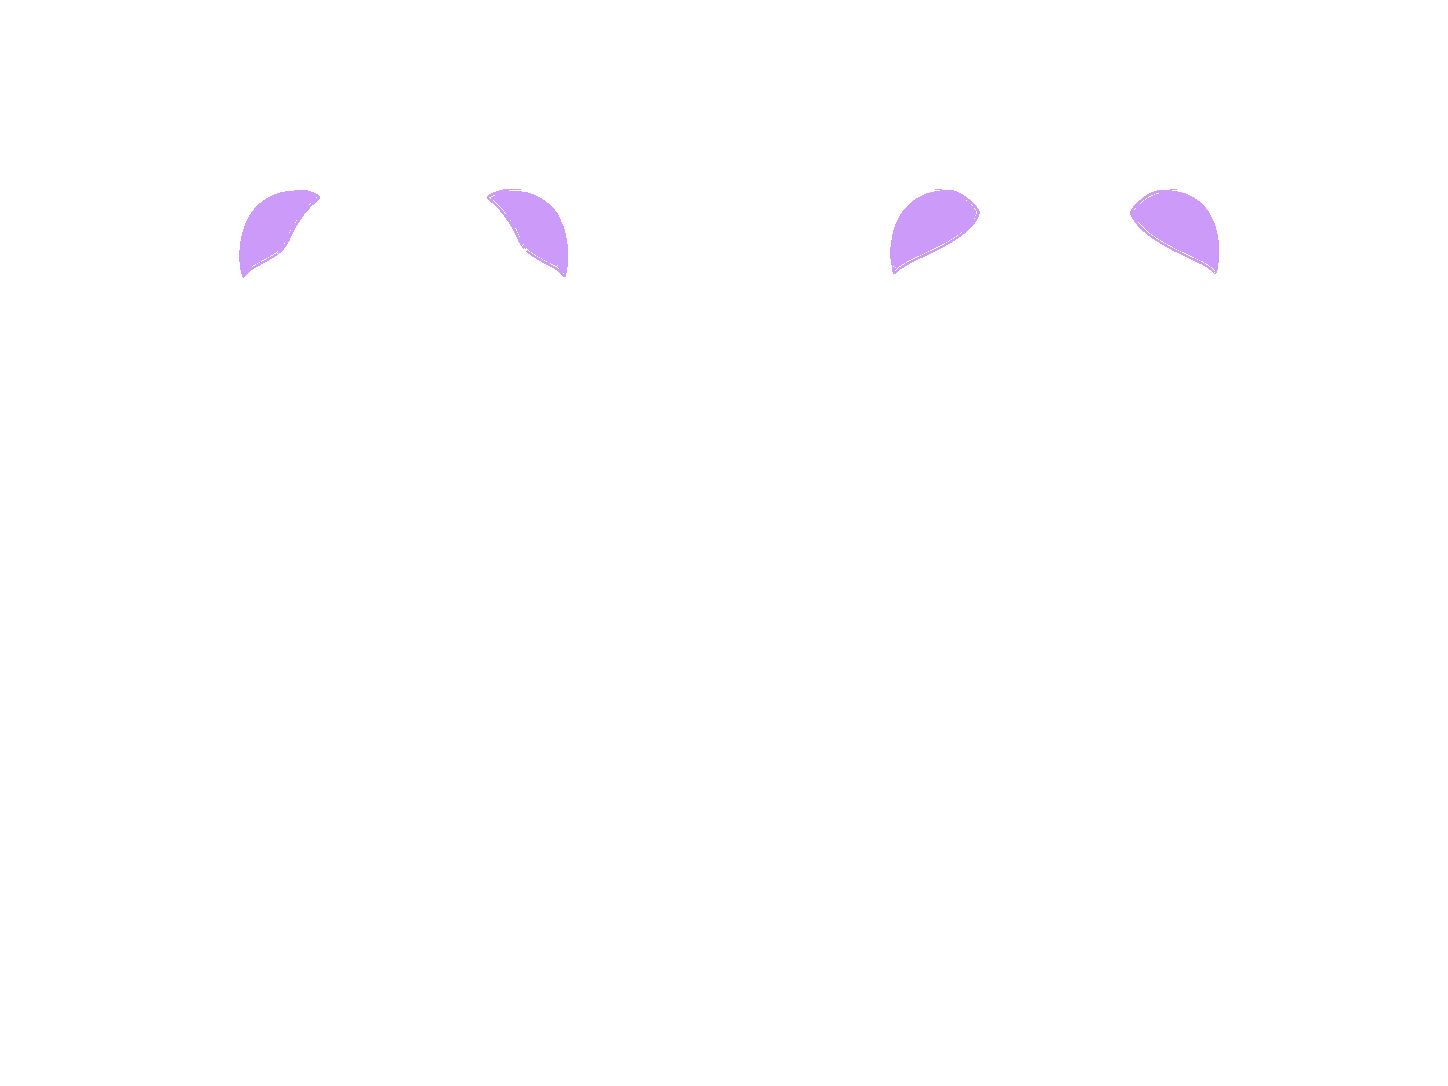
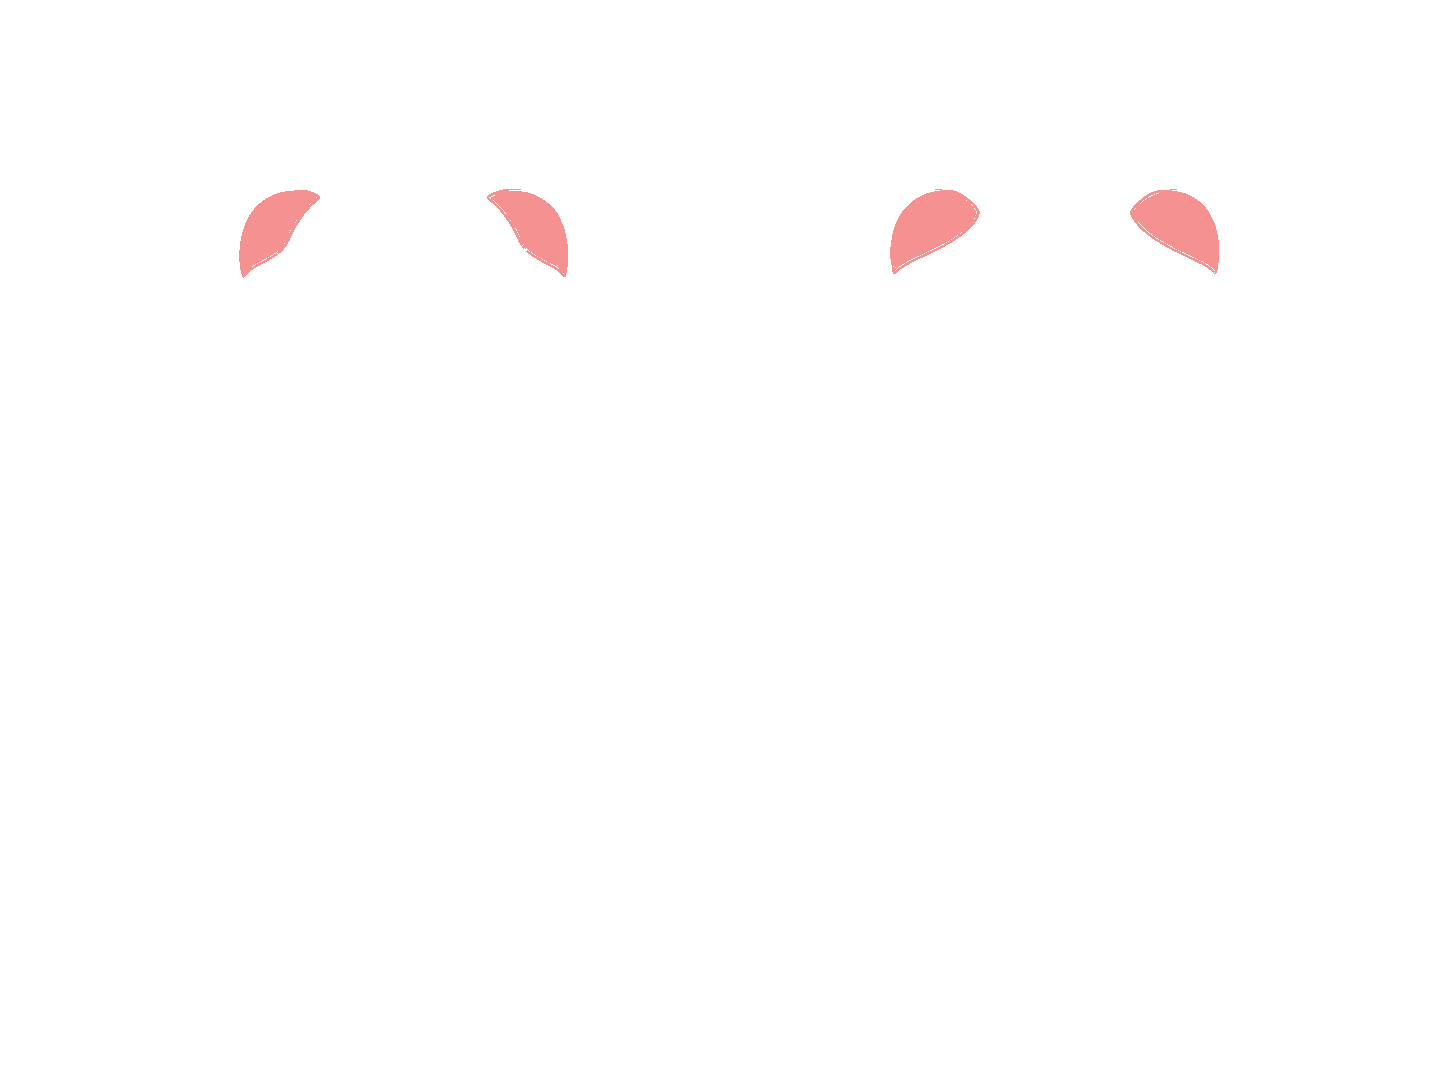
Add glutes muscle group and rebuild back-view masks from anatomy
- Introduce "glutes" as a standalone BodyPart (was lumped under "legs")
  - Update BODY_PARTS, BODY_PART_COLORS, toBodyPart in both frontend and convex/analytics.ts
  - New mask glutes.png (L935+L936 connected components = round buttocks body)
  - Add Glutes label across WorkoutMuscleMap, WorkoutMuscleAvatar, analytics page
- Rebuild legs/back/triceps masks from connected components of the body image
  for anatomically accurate shapes instead of generic ellipses
- Symmetrize back mask (mirror asymmetric left half to right, center x=1053)
- Normalize all mask alpha to 150 so muscles in the same volume zone render the
  same shade (removed getMaskOpacity tier variation)
- Switch volume colors to lighter pastel tones (green-400, yellow-300, red-400)
- Filter "Sonstiges" out of figcaption and VolumeBarChart (kept as fallback type)
- Session notes in docs/bodygraph-session-notes.md

diff --git a/src/components/workout/WorkoutMuscleMap.tsx b/src/components/workout/WorkoutMuscleMap.tsx
@@ -18,6 +18,7 @@ const BODY_LABELS: Record<BodyPart, string> = {
   triceps: "Trizeps",
   core: "Core",
   legs: "Beine",
+  glutes: "Glutes",
   shoulders: "Schultern",
   other: "Sonstiges",
 };
@@ -29,16 +30,10 @@ const BODY_PART_MASKS: Record<BodyPart, string> = {
   triceps: "/bodygraph-masks/triceps.png",
   core: "/bodygraph-masks/core.png",
   legs: "/bodygraph-masks/legs.png",
+  glutes: "/bodygraph-masks/glutes.png",
   shoulders: "/bodygraph-masks/shoulders.png",
   other: "/bodygraph-masks/other.png",
 };
-
-function getMaskOpacity(setCount: number) {
-  if (setCount <= 0) return 0;
-  if (setCount <= 4) return 0.86;
-  if (setCount <= 9) return 0.94;
-  return 1;
-}
 
 interface MaskOverlayProps {
   part: BodyPart;
@@ -63,7 +58,6 @@ function MaskOverlay({ part, setCounts }: MaskOverlayProps) {
         WebkitMaskRepeat: "no-repeat",
         maskSize: "contain",
         WebkitMaskSize: "contain",
-        opacity: getMaskOpacity(setCount),
       }}
     />
   );
@@ -136,7 +130,7 @@ export function WorkoutMuscleMap({
       </div>
       {!compact && (
         <figcaption className="mt-3 grid grid-cols-2 gap-2 text-xs text-muted-foreground">
-          {BODY_PARTS.map((part) => {
+          {BODY_PARTS.filter((part) => part !== "other").map((part) => {
             const setCount = setCounts[part];
             const color = getWeeklySetVolumeColor(setCount);
 

diff --git a/src/lib/muscle-groups.ts b/src/lib/muscle-groups.ts
@@ -7,6 +7,7 @@ export const BODY_PARTS = [
   "triceps",
   "core",
   "legs",
+  "glutes",
   "shoulders",
   "other",
 ] as const;
@@ -20,6 +21,7 @@ export const BODY_PART_COLORS: Record<BodyPart, string> = {
   triceps: "#ec4899",
   core: "#06b6d4",
   legs: "#22c55e",
+  glutes: "#f59e0b",
   shoulders: "#a855f7",
   other: "#94a3b8",
 };
@@ -45,21 +47,21 @@ export const WEEKLY_SET_VOLUME_ZONES: Array<{
     label: "1-5 Sätze",
     minSets: 1,
     maxSets: 5,
-    color: "#22c55e",
+    color: "#4ade80",
   },
   {
     zone: "moderate",
     label: "6-10 Sätze",
     minSets: 6,
     maxSets: 10,
-    color: "#eab308",
+    color: "#fde047",
   },
   {
     zone: "high",
     label: "11+ Sätze",
     minSets: 11,
     maxSets: null,
-    color: "#ef4444",
+    color: "#f87171",
   },
 ];
 
@@ -81,7 +83,6 @@ export function getWeeklySetVolumeColor(setCount: number) {
 export function toBodyPart(muscleGroup: string): BodyPart {
   if (muscleGroup === "quads") return "legs";
   if (muscleGroup === "hamstrings") return "legs";
-  if (muscleGroup === "glutes") return "legs";
   if (muscleGroup === "calves") return "legs";
   if (muscleGroup === "full_body") return "other";
   if (muscleGroup === "cardio") return "other";

diff --git a/convex/analytics.ts b/convex/analytics.ts
@@ -14,7 +14,6 @@ function toBodyPart(muscleGroup: string): string {
   if (
     muscleGroup === "quads" ||
     muscleGroup === "hamstrings" ||
-    muscleGroup === "glutes" ||
     muscleGroup === "calves"
   ) {
     return "legs";
@@ -29,6 +28,7 @@ function toBodyPart(muscleGroup: string): string {
     muscleGroup === "triceps" ||
     muscleGroup === "core" ||
     muscleGroup === "legs" ||
+    muscleGroup === "glutes" ||
     muscleGroup === "shoulders"
   ) {
     return muscleGroup;
@@ -43,6 +43,7 @@ const BODY_PARTS = [
   "triceps",
   "core",
   "legs",
+  "glutes",
   "shoulders",
   "other",
 ] as const;

diff --git a/src/components/charts/VolumeBarChart.tsx b/src/components/charts/VolumeBarChart.tsx
@@ -121,7 +121,7 @@ export function VolumeBarChart({ data }: VolumeBarChartProps) {
     >
   );
 
-  const formatted = BODY_PARTS.map((part) => ({
+  const formatted = BODY_PARTS.filter((part) => part !== "other").map((part) => ({
     key: part,
     label: t(`muscleGroups.${part}`),
     sets: totals[part].sets,

diff --git a/src/app/(app)/analytics/page.tsx b/src/app/(app)/analytics/page.tsx
@@ -228,6 +228,7 @@ function MuscleInsight({
     triceps: "Trizeps",
     core: "Core",
     legs: "Beine",
+    glutes: "Glutes",
     shoulders: "Schultern",
     other: "Sonstiges",
   }[part.part];

diff --git a/src/components/workout/WorkoutMuscleAvatar.tsx b/src/components/workout/WorkoutMuscleAvatar.tsx
@@ -15,6 +15,7 @@ const BODY_LABELS: Record<BodyPart, string> = {
   triceps: "Trizeps",
   core: "Core",
   legs: "Beine",
+  glutes: "Glutes",
   shoulders: "Schultern",
   other: "Sonstiges",
 };

diff --git a/docs/bodygraph-session-notes.md b/docs/bodygraph-session-notes.md
@@ -1,0 +1,96 @@
+# Bodygraph & Muscle Group Session Notes
+
+Stand: 2026-05-15 (Session-Ende)
+Branch: `feature/visuals-analysis-workout-tracking`
+
+## Was wurde gemacht
+
+### 1. Bodygraph-Masken überarbeitet
+Die Masken in `public/bodygraph-masks/` wurden aus den Connected Components des
+Körperbilds (`public/bodygraph-muscle-map-transparent.png`) neu aufgebaut,
+sodass sie der echten Muskel-Anatomie folgen statt generischer Ovale.
+
+**Methodik:** Connected-Components-Erkennung via `scipy.ndimage.label` auf den
+"pure body fill" Pixeln (R>=215, G>=215, B>=220), dann Auswahl der Labels
+pro Muskelgruppe + Dilation (iterations=2-3) zum Schließen von Outline-Gaps.
+
+**Aktuelle Masken-Komposition:**
+
+| Maske | Connected Components / Strategie |
+|-------|----------------------------------|
+| chest | original (unverändert) |
+| back | Original + Glute-Mirror (y:430-580, Zentrum x=1053) + Upper-Shoulder-Mirror (y:180-290) + Lats (L440, L441, L779, L786, L841, L843); minus Arm-Zonen, Shoulders, Triceps, Glutes |
+| biceps | original (unverändert) |
+| triceps | L420, L421 (Hauptmuskel, dilated iterations=3) + Filter: xmax<970 oder xmin>1100 |
+| core | original (unverändert) |
+| legs | front: L1059, L1060, L1019, L1018, L1574, L1566, L1911, L1912, L1909, L1910, L2118, L2120<br>back: L1444-L1447 (Hamstrings), L1886, L1888 (untere Außen-Oberschenkel), L1380, L1388 (Glute-Divider), L1333, L1334 (Glute-Außen-Edges), L1814, L1819 (kleine Reste)<br>back-calves: ConvexHull aus L2133+L2144 (links) / L2137+L2146 (rechts) **gecappt bei y=905** |
+| glutes | **NEU** - L935, L936 (runde Pobacken-Körper) |
+| shoulders | original (unverändert) |
+| other | original (unverändert) |
+
+**Alpha-Wert:** Alle Masken auf `alpha=150` normiert (RGB=239,68,68 - irrelevant da
+CSS mask-image nur Alpha nutzt). Vorher hatten neue Masken alpha=255, original alpha=150 -
+führte zu unterschiedlichen Rendering-Helligkeiten der gleichen Volumen-Zone.
+
+### 2. Neue Muskelgruppe "Glutes" eingeführt
+Glutes als eigener BodyPart hinzugefügt (vorher unter "legs" subsumiert).
+
+**Files geändert:**
+- `src/lib/muscle-groups.ts`: `BODY_PARTS` erweitert um `glutes`, `BODY_PART_COLORS["glutes"] = "#f59e0b"`, `toBodyPart()` mapped `glutes` jetzt direkt auf `glutes` (nicht mehr legs)
+- `src/components/workout/WorkoutMuscleMap.tsx`: `BODY_LABELS["glutes"] = "Glutes"`, `BODY_PART_MASKS["glutes"] = "/bodygraph-masks/glutes.png"`
+- `src/components/workout/WorkoutMuscleAvatar.tsx`: Label ergänzt
+- `src/app/(app)/analytics/page.tsx`: Label in MuscleInsight ergänzt
+- `convex/analytics.ts`: `BODY_PARTS` und `toBodyPart()` analog erweitert (Backend deployed)
+- `public/bodygraph-masks/glutes.png`: Neue Maske erstellt
+
+### 3. Farbsystem auf Volumen-basiert umgestellt
+Statt muskelgruppen-spezifische Festfarben (`BODY_PART_COLORS`) nutzen
+WorkoutMuscleMap und Analytics jetzt `getWeeklySetVolumeColor(setCount)`:
+
+| Zone | Sätze | Farbe |
+|------|-------|-------|
+| none | 0 | `#cbd5e1` (gray) |
+| low | 1-5 | `#4ade80` (green-400) |
+| moderate | 6-10 | `#fde047` (yellow-300) |
+| high | 11+ | `#f87171` (red-400) |
+
+`getMaskOpacity()` wurde aus `WorkoutMuscleMap.tsx` **entfernt** - vorher
+variierte Opacity je nach Set-Count innerhalb der gleichen Zone, was zu
+unterschiedlichen Grün-Tönen führte.
+
+### 4. Overlap-Cleanup
+Wichtigste Sub-Operationen damit Farben sich nicht mischen:
+- Trizeps: Back-Mask-Pixel aus den Arm-Zonen entfernt (`x:850-970, x:1110-1230, y:280-450`)
+- Back-Maske gespiegelt: linke asymmetrische Glute-Extension auf rechts gespiegelt (Zentrum x=1053, y:430-580)
+- Rear-Deltoid Overlap: Shoulders bleibt original, Back-Pixel im Deltoid-Bereich (y<280 wo overlap mit shoulders) entfernt
+- Glutes vs Legs: L1444-L1447 sind anatomisch Hamstrings (gehen bis y:743), wurden zu legs verschoben; L1333/L1334 (Außen-Edges) sehen wie Außen-Oberschenkel aus, ebenfalls in legs
+
+### 5. "Sonstiges" (other) aus UI gefiltert
+- `WorkoutMuscleMap.tsx`: figcaption `BODY_PARTS.filter((part) => part !== "other")`
+- `VolumeBarChart.tsx`: gleicher Filter
+- MuscleInsight in Analytics: war bereits gefiltert
+- Type/Backend bleibt erhalten als Fallback für unbekannte muscleGroups
+
+## Offener Punkt für morgen
+
+Wadenbereich Back-View ist noch nicht final - die Convex-Hull-Lösung
+(L2133+L2144 / L2137+L2146 gecappt bei y=905) füllt die obere Gastrocnemius,
+aber der genaue Bereich an der Innenseite war zuletzt noch ein Diskussionspunkt.
+User sagte zuletzt "ja fast" - eventuell noch leichte Adjustierung nötig.
+
+## Skripte/Methodik
+
+Alle Masken-Änderungen wurden via Python (PIL + numpy + scipy) gemacht.
+Body-Image-Dimension: 1448x1086.
+
+Wichtige Konstanten:
+- Body Center Back-View: **x=1054** (true silhouette center, NICHT 1039)
+- Glute-Y-Bereich: y=540-720
+- Hamstring-Y-Bereich: y=720-870
+- Calf-Y-Bereich: y=870-980
+
+## Deploy-Hinweis
+
+Convex Backend wurde mit `npx convex dev --once` deployed - `glutes` als
+BodyPart ist in Production aktiv. Falls weitere Backend-Änderungen kommen,
+gleicher Befehl ausführen.
